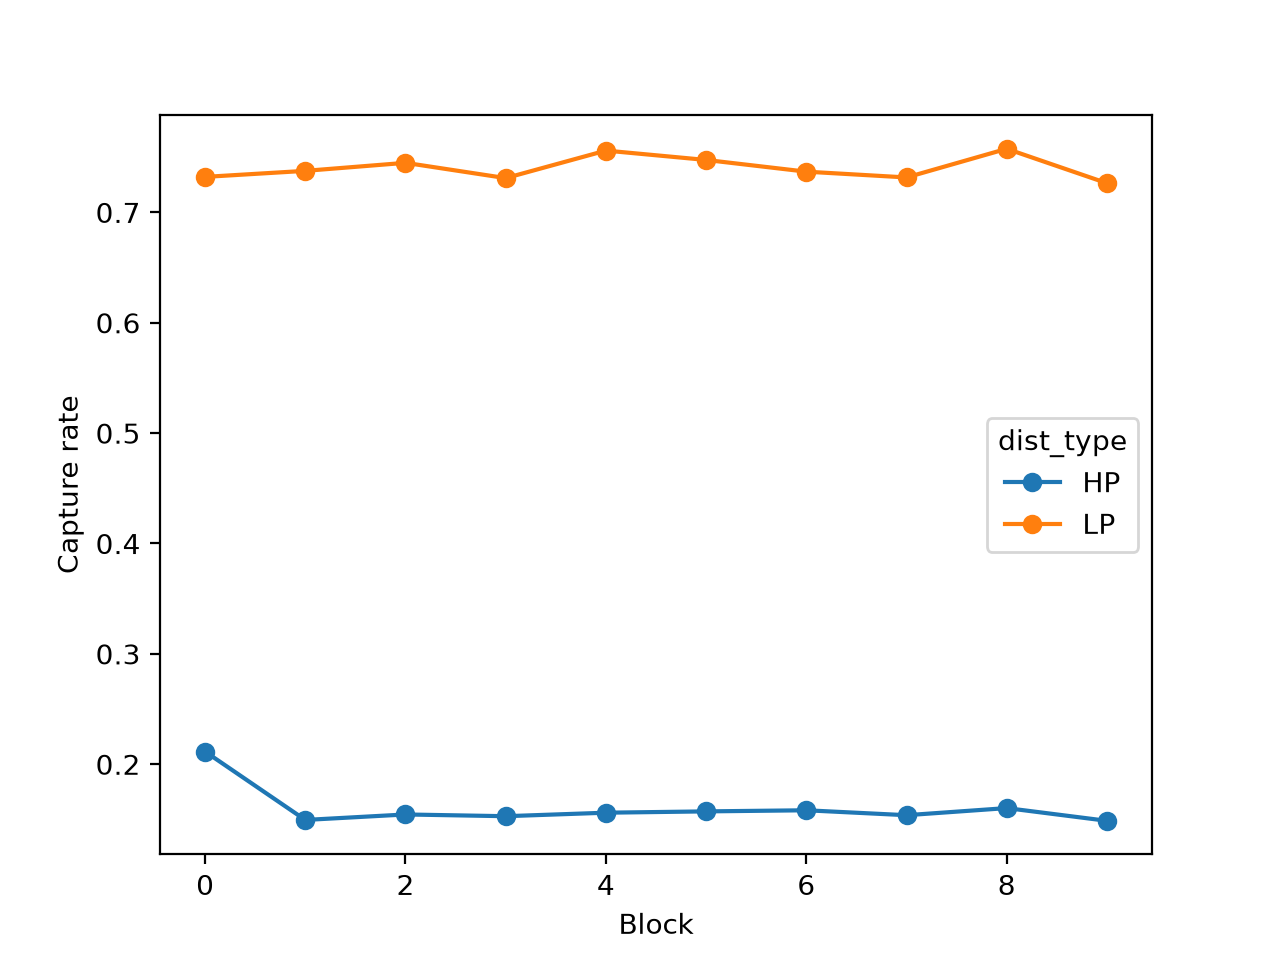
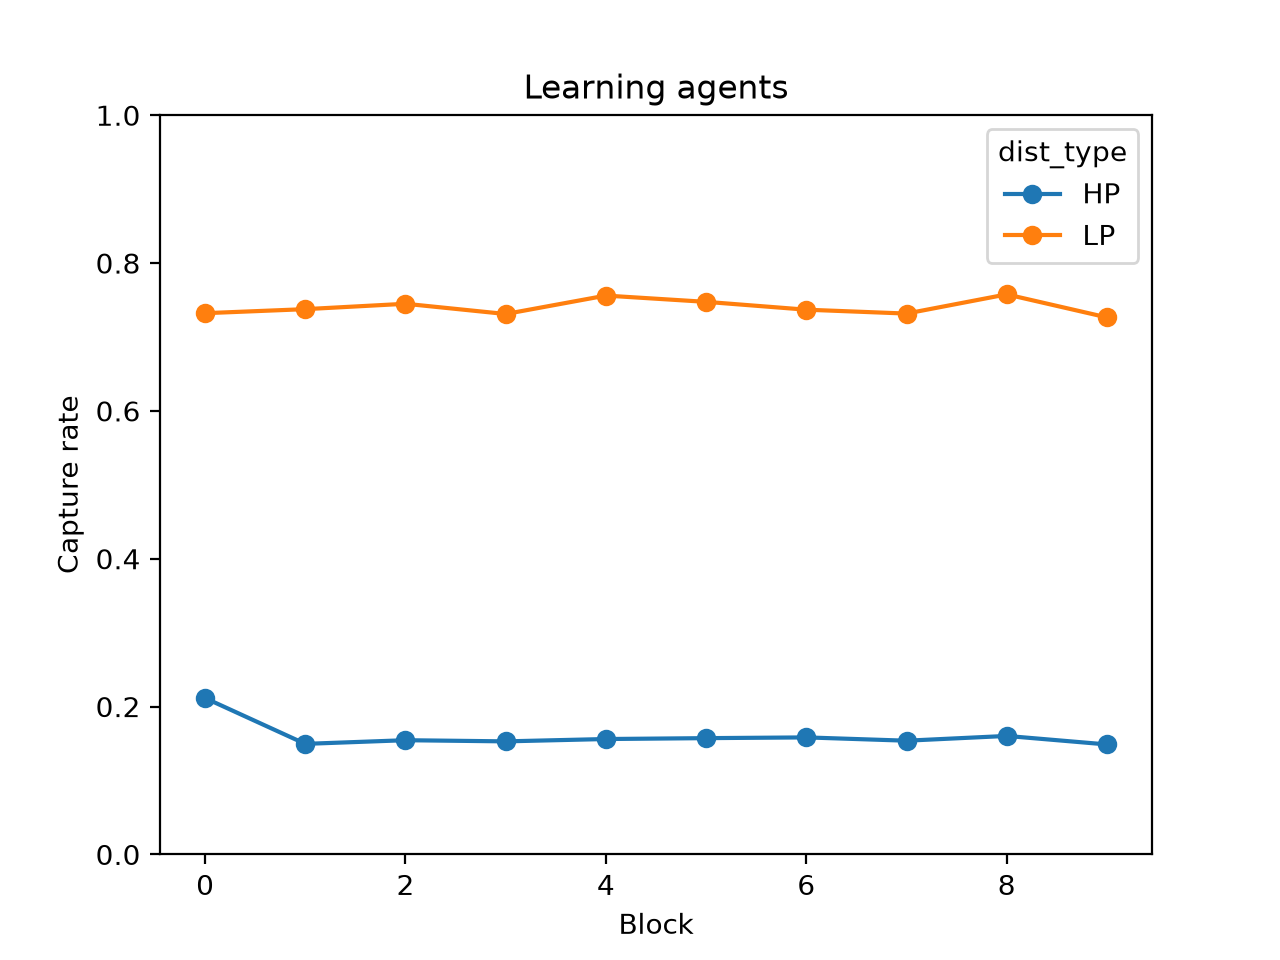
Final README

diff --git a/scripts/analyze.py b/scripts/analyze.py
@@ -5,25 +5,29 @@ import statsmodels.formula.api as smf
 
 data = pd.read_csv("results/simulated_data.csv")
 
-# label trials
-data["block"] = data["trial"] // 80          # 800 trials -> 10 blocks (0-9)
+# label trials: 800 trials -> 10 blocks (0-9)
+data["block"] = data["trial"] // 80
 data["dist_type"] = (data["distractor"] == 0).map({True: "HP", False: "LP"})
 data["captured"] = data["captured"].astype(int)
 
 # 1. capture rate by block
 cap = data.groupby(["block", "dist_type"])["captured"].mean().unstack()
+print("\nCAPTURE RATE BY BLOCK")
 print(cap)
 cap.plot(marker="o")
 plt.ylabel("Capture rate")
 plt.xlabel("Block")
+plt.title("Learning agents")
+plt.ylim(0, 1)
 plt.savefig("results/capture_by_block.png", dpi=200)
-plt.show()
 
 # 2. mixed model on RT
+print("\nMIXED MODEL: RT")
 m = smf.mixedlm("rt ~ C(dist_type) * block", data, groups=data["agent"]).fit()
 print(m.summary())
 
 # 3. logistic model on capture (GEE)
+print("\nGEE: CAPTURE")
 g = smf.gee("captured ~ C(dist_type) * block", groups="agent",
             data=data, family=sm.families.Binomial()).fit()
 print(g.summary())

diff --git a/README.md b/README.md
@@ -8,13 +8,27 @@ frequently (70% of trials)?
 Priority map = salience - beta * learned distractor probability + noise.
 Learning: delta rule (rate alpha). Control: alpha = 0 (no learning).
 
+## Parameters
+- 6 locations; the distractor is at the high-probability (HP) location on 70% of
+  trials and at each other location on 6%; the target is placed randomly at
+  another location
+- 50 agents x 800 trials, in 10 blocks of 80 trials
+- Salience: target 1.0, distractor 1.2; noise SD 0.3
+- RT = 300 ms + 50 ms per location inspected
+- Across agents: alpha ~ N(0.1, 0.03), beta ~ N(1.0, 0.2)
+- Sweep: alpha in {0, 0.05, 0.1, 0.15, 0.2} x beta in {0, 0.5, 1, 1.5, 2},
+  10 agents per cell, final block (last 80 trials)
+
 ## How to run
+```bash
 pip install -r requirements.txt
 python scripts/run_simulation.py
 python scripts/run_control.py
 python scripts/analyze.py
+python scripts/analyze_control.py
 python scripts/run_sweep.py
 python scripts/plot_sweep.py
+```
 
 ## Key results
 
@@ -22,6 +36,18 @@ python scripts/plot_sweep.py
 ![Capture rate, control](results/control_capture_by_block.png)
 ![Parameter sweep](results/sweep_heatmap.png)
 
-In learning agents, distractor capture at the high-probability location falls
-across blocks. In control agents (alpha = 0), it stays flat. The sweep shows
-suppression emerges when both alpha and beta are above zero.
+When the distractor appeared at the HP location, learning agents were captured
+on about 15% of trials after the first block, versus about 73% when it appeared
+at an LP location. HP capture dropped within
+the first block (about 21% averaged over block 0) and then stayed stable. Control
+agents (alpha = 0) showed no HP/LP difference (about 68% for both). LP capture is slightly higher than in the control, likely because LP distractors
+are suppressed less than in the control and because targets at the suppressed HP
+location are more often outcompeted by LP distractors.
+
+In the parameter sweep, final-block HP capture was 0.68 (no suppression)
+whenever alpha = 0 or beta = 0. Otherwise it fell as beta increased (about 0.42-0.43 at beta 0.5, 0.16-0.18 at
+1.0, 0.05-0.08 at 1.5, and 0.01-0.04 at 2.0), with little dependence on alpha
+in the final block. Each cell uses only 10 agents, so differences of 0.01
+to 0.02 are within noise.
+Because the sweep only measures the final block, it shows how strong suppression
+becomes (beta) but not how quickly it is learned (alpha).
